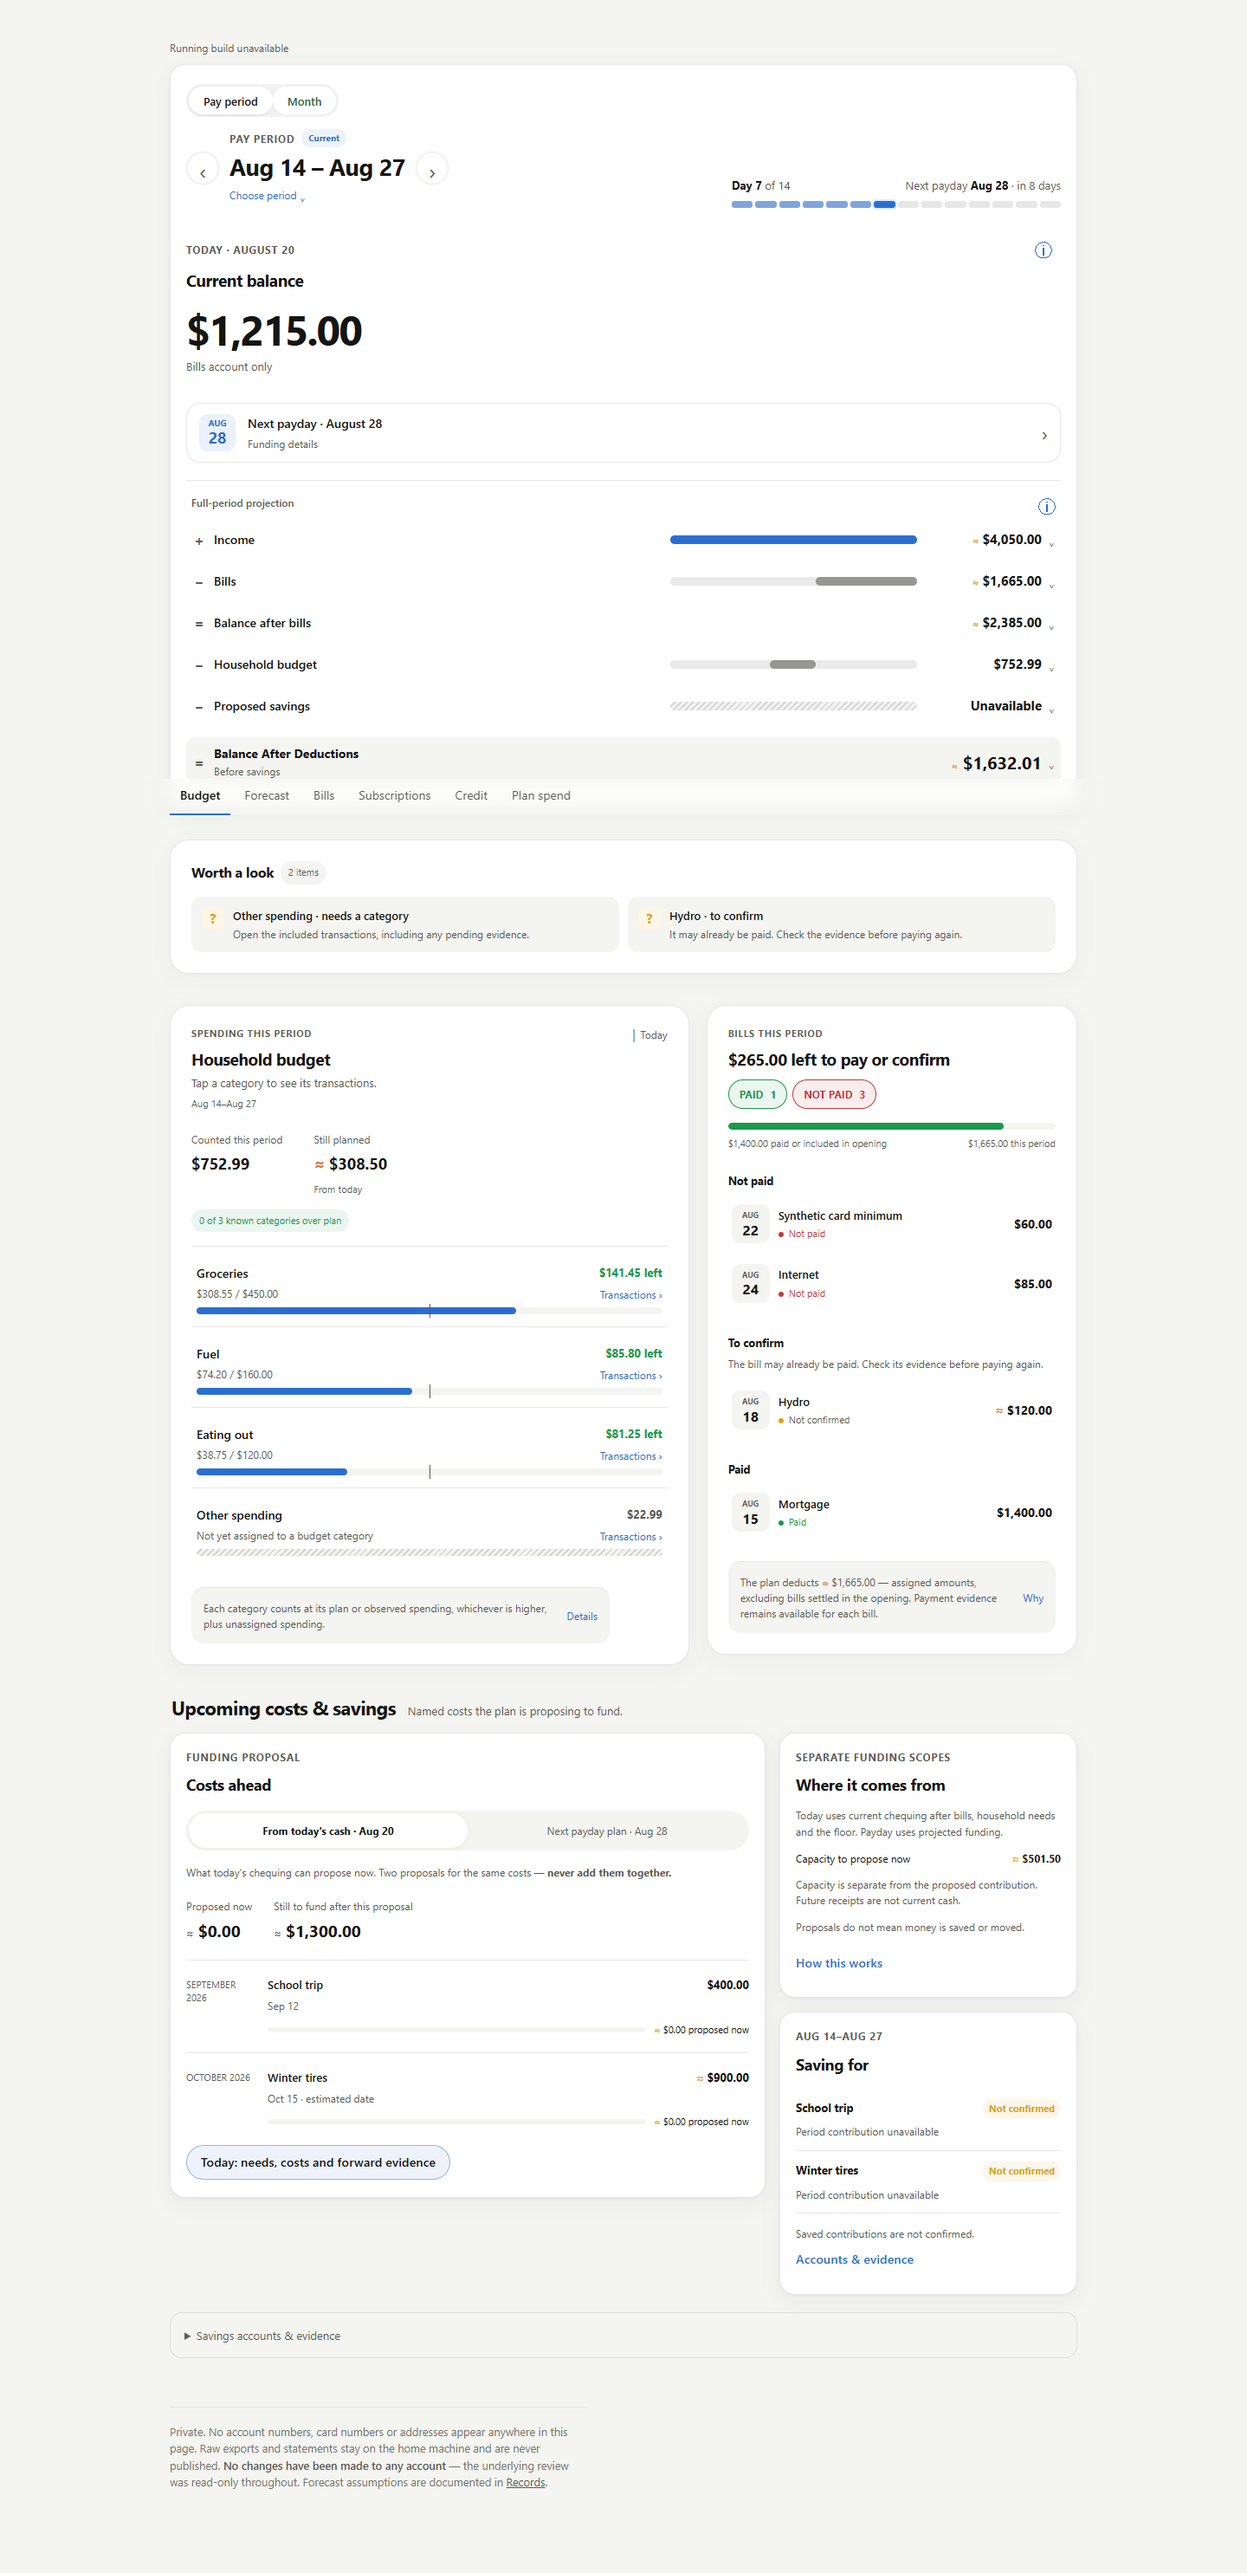
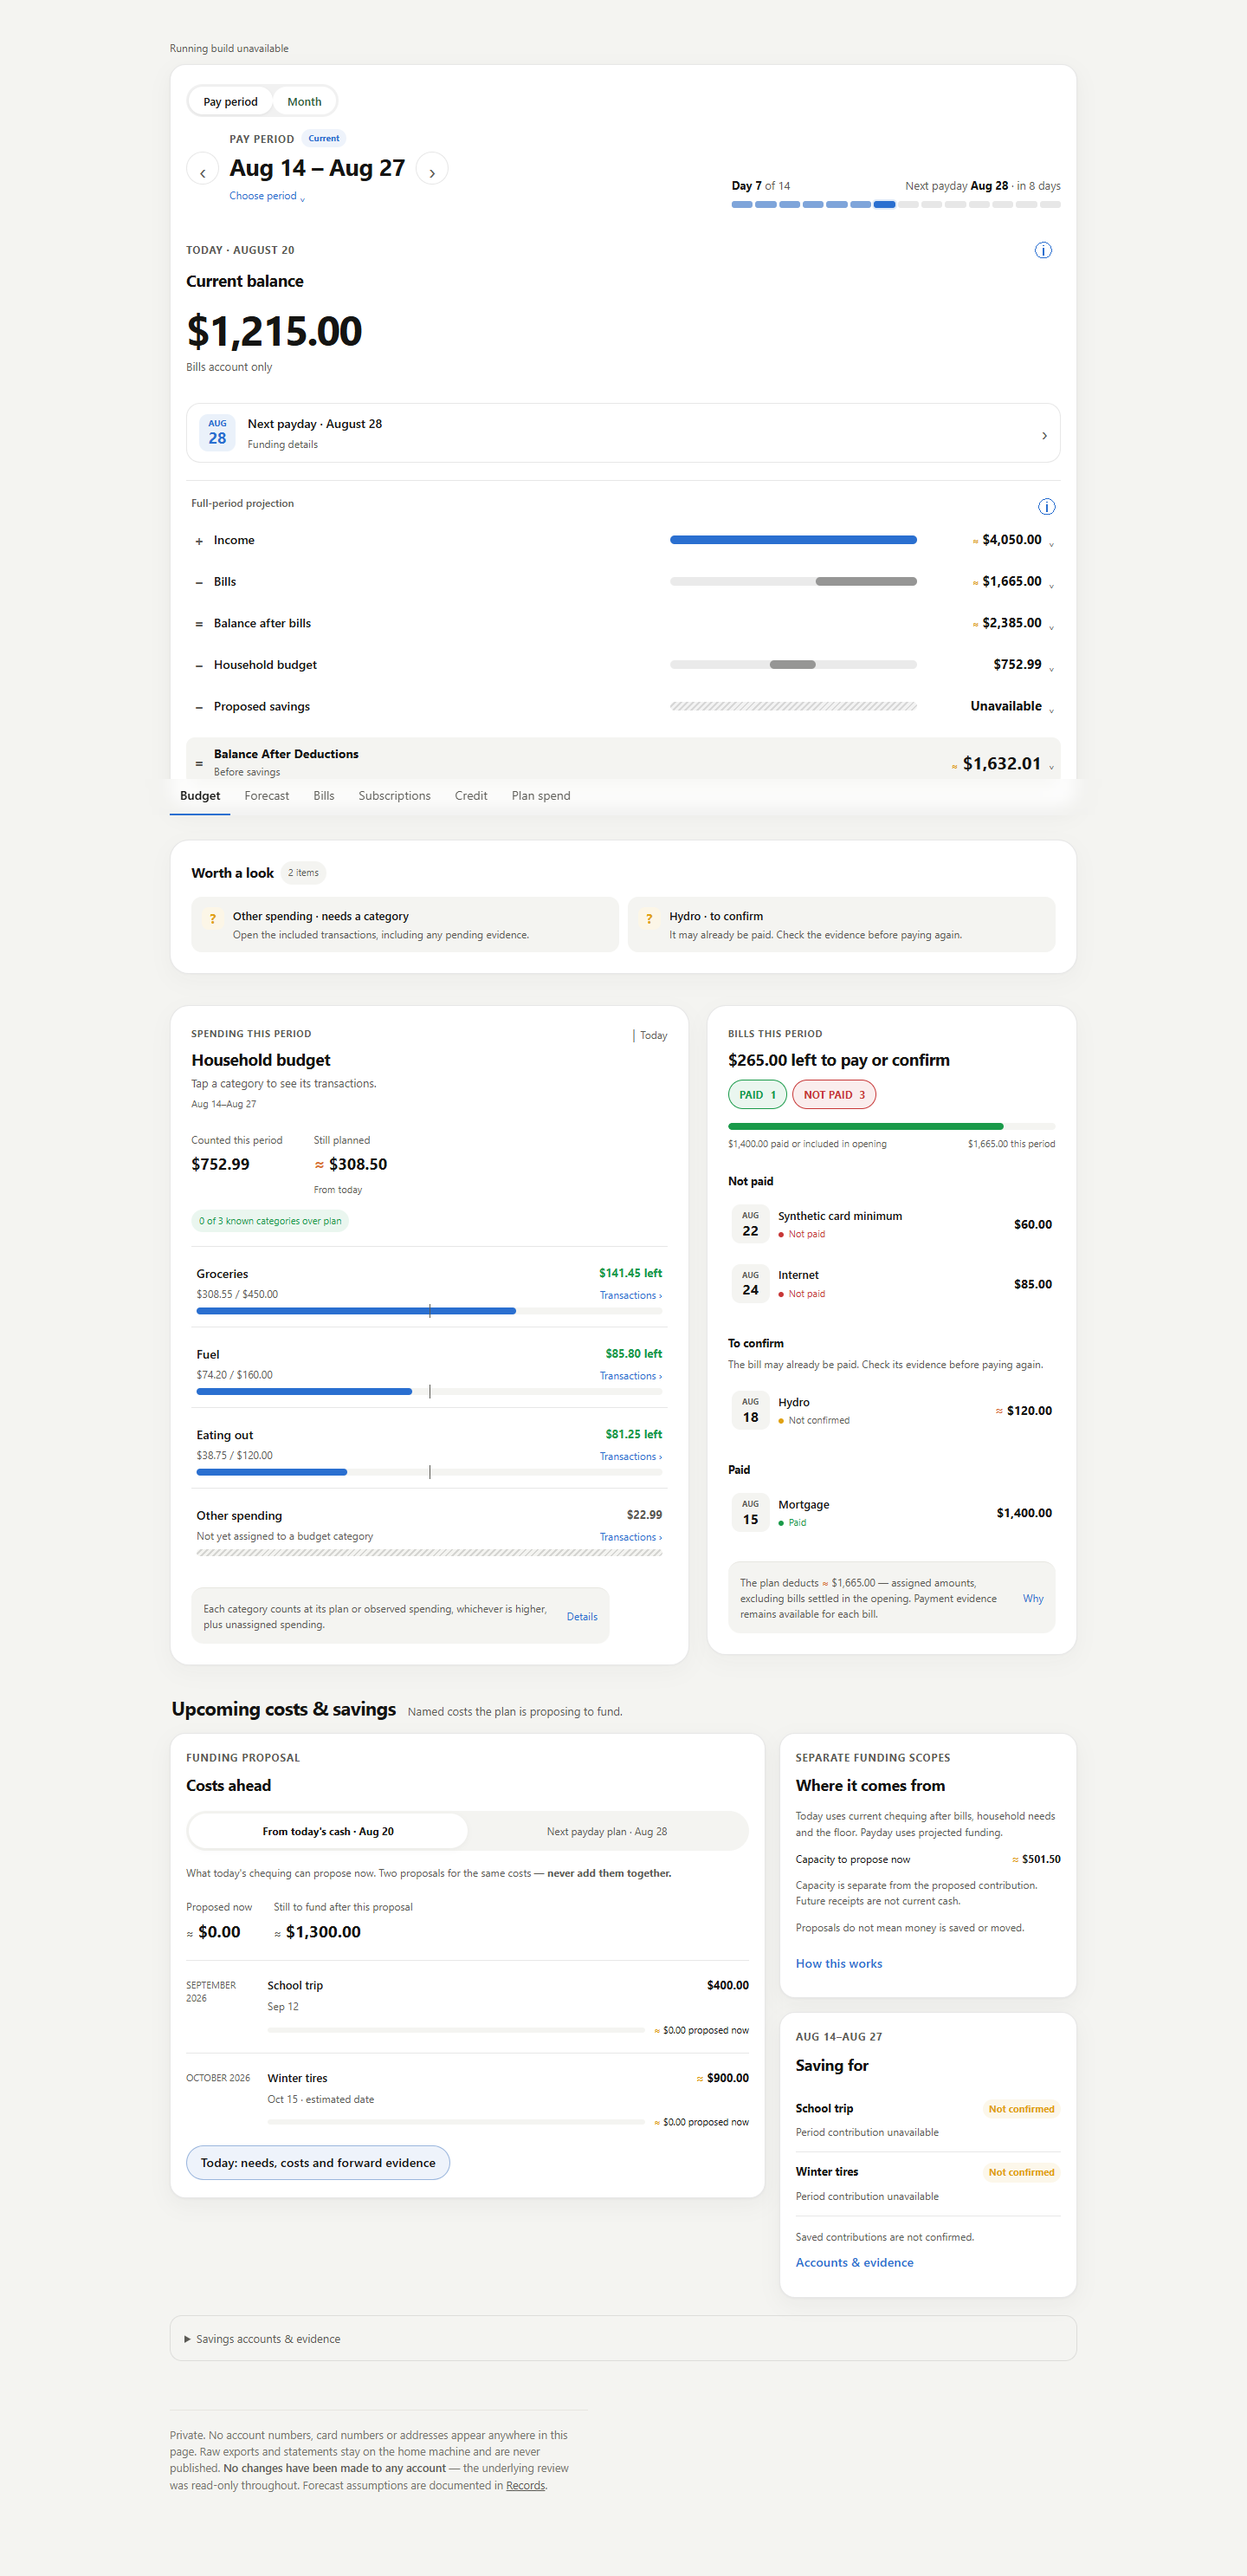
Preserve shared savings inventory inside native Budget disclosure

diff --git a/public/plan.js b/public/plan.js
@@ -6510,7 +6510,7 @@ function renderPlan(d, periods, history) {
   }));
   const fundingPlan = advice.funding || null;
   const inventoryMount = $('savings-inventory');
-  if (inventoryMount && typeof SavingsInventory !== 'undefined') inventoryMount.innerHTML = `<details class="budget-savings-accounts"><summary>Savings accounts &amp; evidence</summary>${SavingsInventory.html(advice.savingsInventory)}</details>`;
+  if (inventoryMount && typeof SavingsInventory !== 'undefined') inventoryMount.innerHTML = SavingsInventory.html(advice.savingsInventory);
   const recommended = advice.weekly;
   const weekly = state.weeklyVariable != null ? state.weeklyVariable : recommended;
   const capView = weeklyCapView(advice, state.weeklyVariable);

diff --git a/public/index.html b/public/index.html
@@ -37,7 +37,10 @@
   <section id="operating-surface">
     <div class="operating-card" id="operating-surface-body" aria-live="polite"></div>
   </section>
-  <div id="savings-inventory"></div>
+  <details class="budget-savings-accounts">
+    <summary>Savings accounts &amp; evidence</summary>
+    <div id="savings-inventory"></div>
+  </details>
 
   <section id="payday-answer" hidden>
     <div class="kicker" id="payday-kicker">Current period</div>
